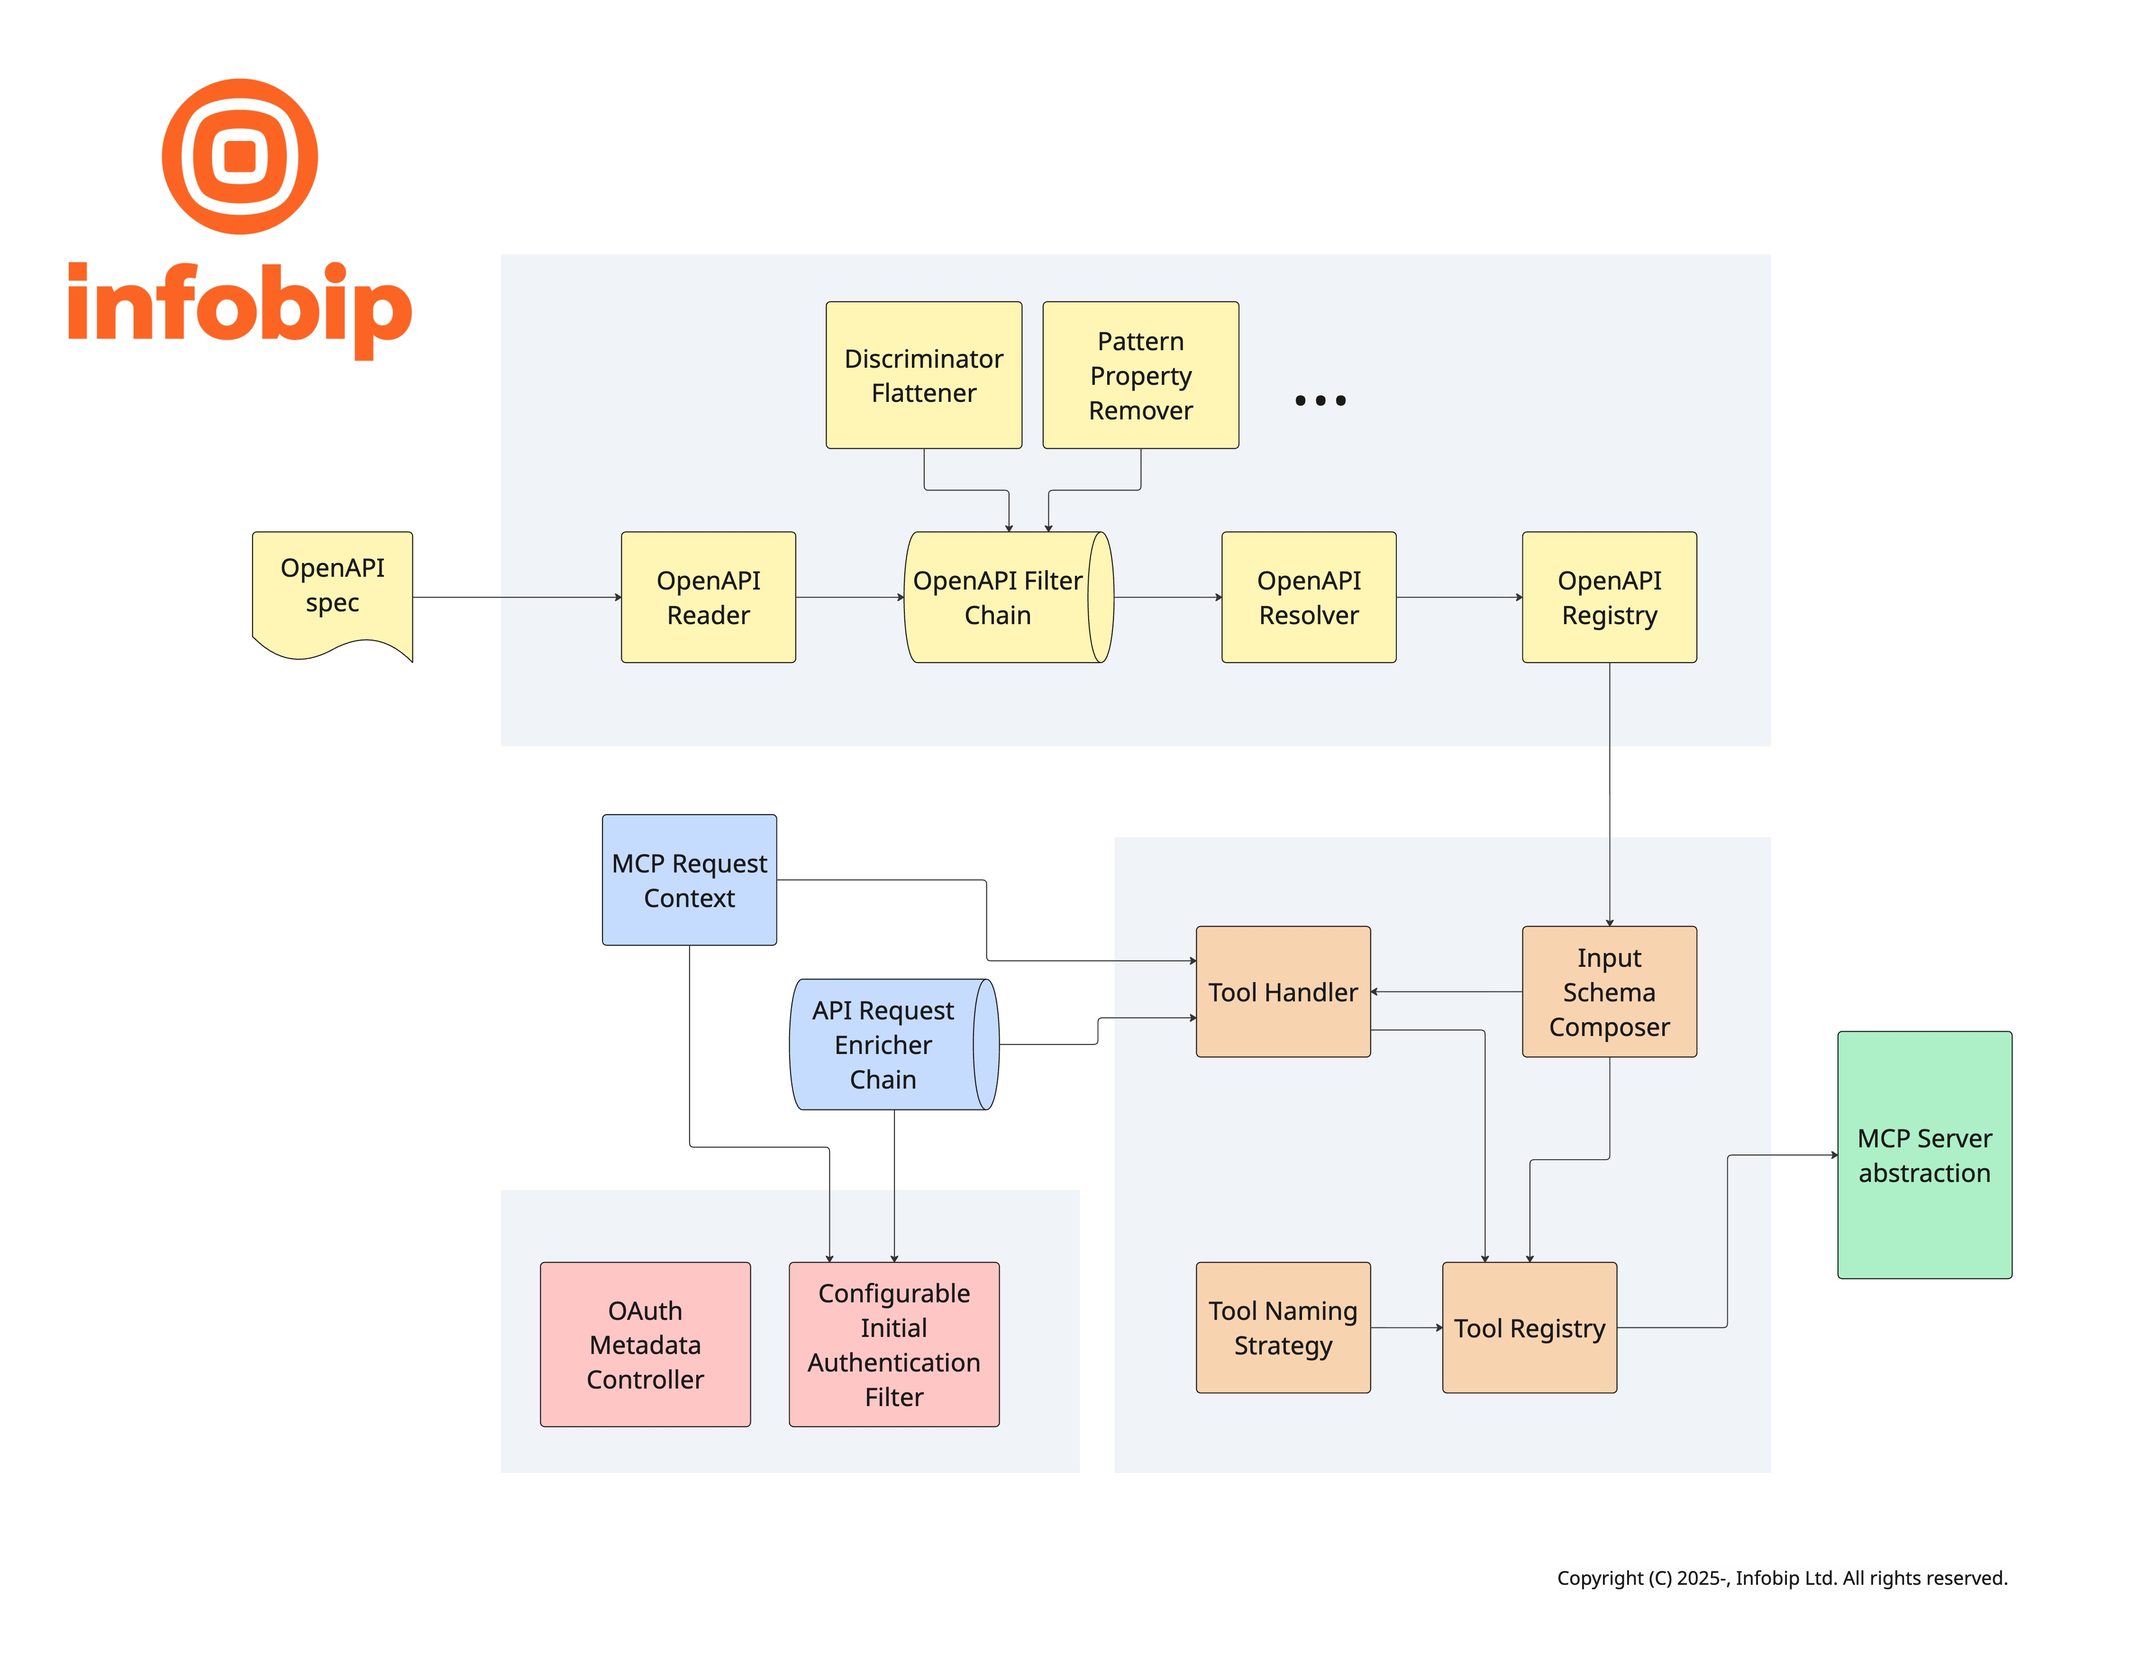
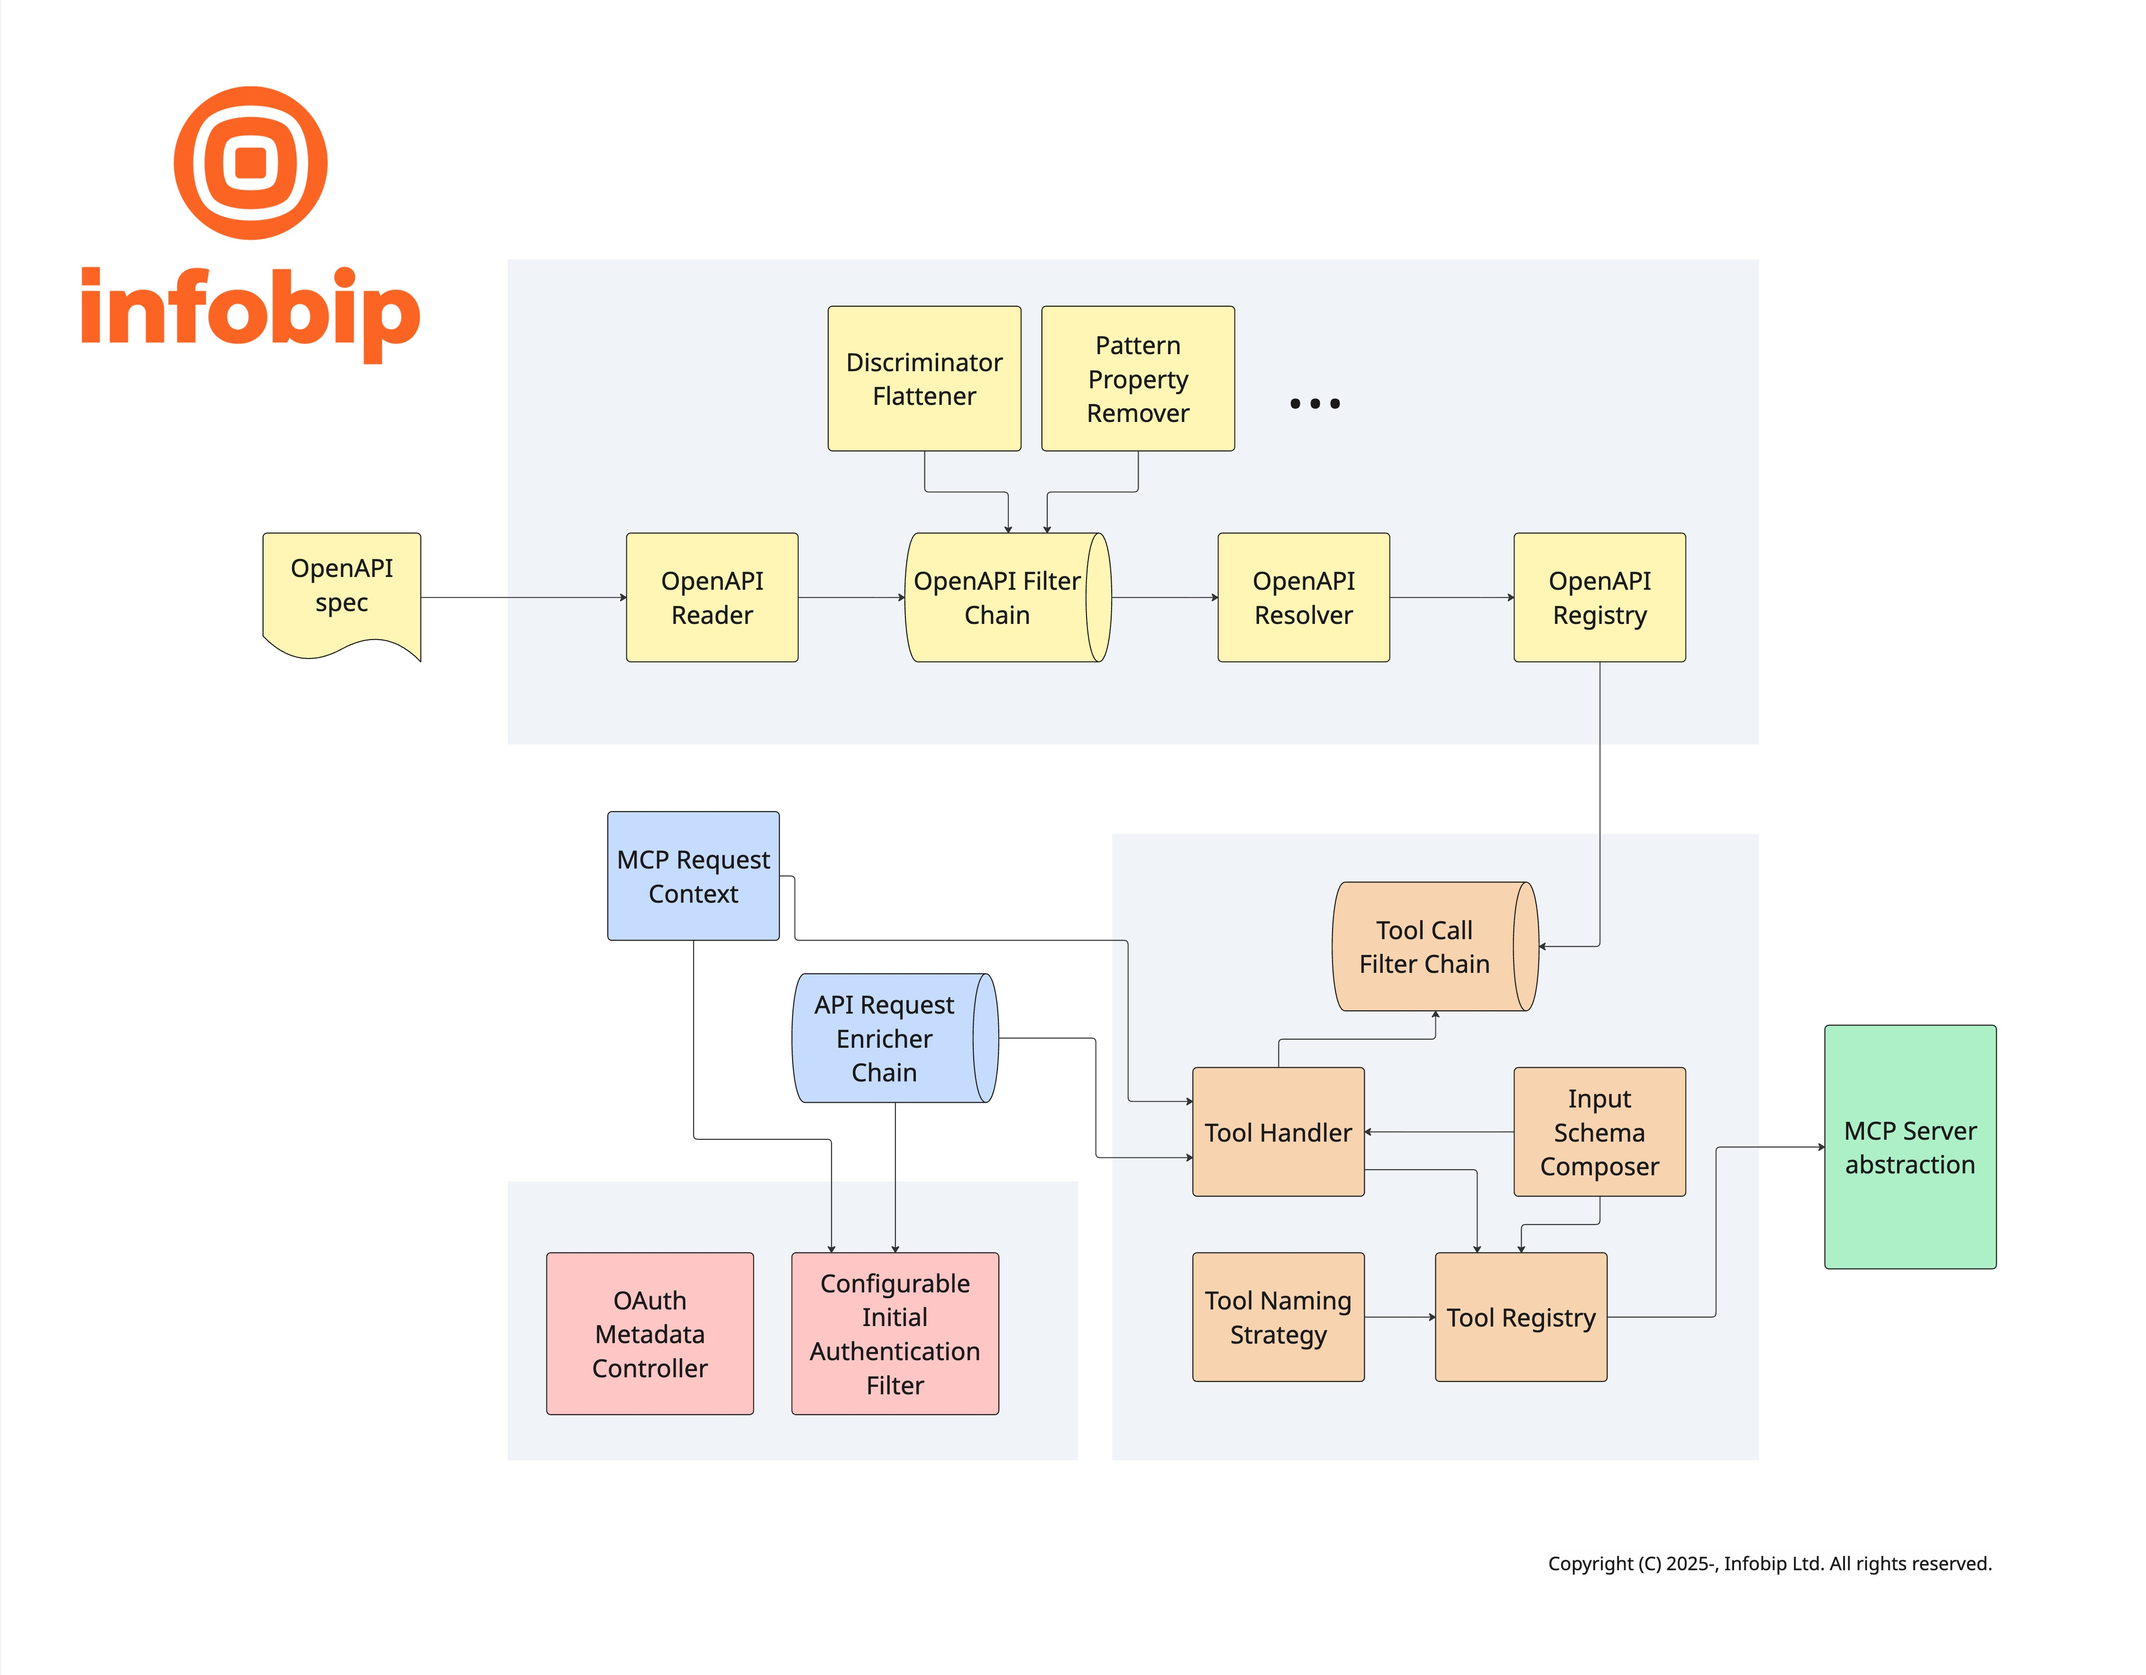
Update documentation

diff --git a/infobip-openapi-mcp-core/src/main/java/com/infobip/openapi/mcp/openapi/tool/OrderingToolCallFilterChainFactory.java b/infobip-openapi-mcp-core/src/main/java/com/infobip/openapi/mcp/openapi/tool/OrderingToolCallFilterChainFactory.java
@@ -6,28 +6,48 @@ import java.util.Collection;
 import java.util.List;
 import java.util.function.Supplier;
 import java.util.stream.Stream;
-import org.jspecify.annotations.NonNull;
+import org.jspecify.annotations.NullMarked;
+import org.springframework.core.Ordered;
 import org.springframework.core.annotation.AnnotationAwareOrderComparator;
 
-public class OrderingToolCallFilterChainFactory implements Supplier<ToolCallFilter.Chain> {
+/**
+ * OrderingToolCallFilterChainFactory creates a {@link ToolCallFilterChain} from an ordered list of {@link ToolCallFilter}s.
+ * Filters are sorted using Spring's {@link AnnotationAwareOrderComparator} to respect {@code @Order} annotations.
+ */
+@NullMarked
+public class OrderingToolCallFilterChainFactory implements Supplier<ToolCallFilterChain> {
 
     private final List<ToolCallFilter> filters;
 
-    public OrderingToolCallFilterChainFactory(
-            @NonNull ToolCallFilter filter, @NonNull Collection<? extends ToolCallFilter> filters) {
+    /**
+     * @param filter the only filter in the chain
+     */
+    public OrderingToolCallFilterChainFactory(ToolCallFilter filter) {
+        this(filter, List.of());
+    }
+
+    /**
+     * @param filter  at least one {@link ToolCallFilter} must be provided
+     * @param filters remaining filters in the chain
+     * @implNote filters are sorted in the constructor, allowing for performant {@link OrderingToolCallFilterChainFactory#get()} method calls
+     */
+    public OrderingToolCallFilterChainFactory(ToolCallFilter filter, Collection<? extends ToolCallFilter> filters) {
         this.filters = Stream.concat(Stream.of(filter), filters.stream())
                 .sorted(new AnnotationAwareOrderComparator())
                 .toList();
     }
 
+    /**
+     * @return chain that iterates over provided filters in order defined by Spring's {@link Ordered}. The resulting
+     * chain throws {@link IllegalStateException} in case none of the provided filters returns a {@link McpSchema.CallToolResult}.
+     */
     @Override
-    public ToolCallFilter.@NonNull Chain get() {
-        return new ToolCallFilter.Chain() {
+    public ToolCallFilterChain get() {
+        return new ToolCallFilterChain() {
             int idx = 0;
 
             @Override
-            public McpSchema.@NonNull CallToolResult doFilter(
-                    @NonNull McpRequestContext ctx, McpSchema.@NonNull CallToolRequest req) {
+            public McpSchema.CallToolResult doFilter(McpRequestContext ctx, McpSchema.CallToolRequest req) {
                 if (idx >= filters.size()) {
                     throw new IllegalStateException(
                             "Tool call filter chain exhausted without any of the filters returning a response.");

diff --git a/infobip-openapi-mcp-core/src/main/java/com/infobip/openapi/mcp/openapi/tool/ToolCallFilter.java b/infobip-openapi-mcp-core/src/main/java/com/infobip/openapi/mcp/openapi/tool/ToolCallFilter.java
@@ -2,15 +2,41 @@ package com.infobip.openapi.mcp.openapi.tool;
 
 import com.infobip.openapi.mcp.McpRequestContext;
 import io.modelcontextprotocol.spec.McpSchema;
-import org.jspecify.annotations.NonNull;
+import org.jspecify.annotations.NullMarked;
 
+/**
+ * ToolCallFilter interface allows interception and modification of MCP tool calls before and after execution.
+ * <p>
+ * Filters are invoked in a chain-of-responsibility pattern, with each filter having the option to:
+ * <ul>
+ *   <li>Inspect or modify the incoming request before delegating to the next filter</li>
+ *   <li>Delegate to the next filter in the chain via {@link ToolCallFilterChain#doFilter(McpRequestContext, McpSchema.CallToolRequest)}</li>
+ *   <li>Inspect or modify the response returned from the chain</li>
+ *   <li>Short-circuit the chain by returning a response without delegating</li>
+ * </ul>
+ * <p>
+ * Filters are invoked in the order defined by Spring's {@link org.springframework.core.Ordered} interface.
+ * The default {@link RegisteredTool} filter, which has the lowest precedence ({@link org.springframework.core.Ordered#LOWEST_PRECEDENCE}),
+ * is responsible for executing the actual HTTP API call to the backend service. Filters with higher precedence
+ * (lower order values) can intercept tool calls before the HTTP request is made.
+ *
+ * @see ToolCallFilterChain
+ * @see RegisteredTool
+ */
+@NullMarked
 public interface ToolCallFilter {
 
-    interface Chain {
-        McpSchema.@NonNull CallToolResult doFilter(
-                @NonNull McpRequestContext ctx, McpSchema.@NonNull CallToolRequest req);
-    }
-
-    McpSchema.@NonNull CallToolResult doFilter(
-            @NonNull McpRequestContext ctx, McpSchema.@NonNull CallToolRequest req, @NonNull Chain chain);
+    /**
+     * Filters the provided tool call request.
+     * <p>
+     * Implementations should typically delegate to the next filter in the chain by calling
+     * {@link ToolCallFilterChain#doFilter(McpRequestContext, McpSchema.CallToolRequest)}.
+     * Filters may choose to short-circuit the chain by returning a response directly without delegation.
+     *
+     * @param ctx   the MCP request context containing transport metadata and HTTP request information
+     * @param req   the tool call request to filter
+     * @param chain the filter chain to delegate to the next filter
+     * @return the tool call result, either from the chain or generated by this filter
+     */
+    McpSchema.CallToolResult doFilter(McpRequestContext ctx, McpSchema.CallToolRequest req, ToolCallFilterChain chain);
 }

diff --git a/infobip-openapi-mcp-core/src/main/java/com/infobip/openapi/mcp/openapi/tool/ToolCallFilterChain.java b/infobip-openapi-mcp-core/src/main/java/com/infobip/openapi/mcp/openapi/tool/ToolCallFilterChain.java
@@ -1,0 +1,32 @@
+package com.infobip.openapi.mcp.openapi.tool;
+
+import com.infobip.openapi.mcp.McpRequestContext;
+import io.modelcontextprotocol.spec.McpSchema;
+import org.jspecify.annotations.NonNull;
+
+/**
+ * ToolCallFilterChain represents a chain of {@link ToolCallFilter} instances that process MCP tool calls.
+ * <p>
+ * This interface is used by {@link ToolCallFilter} implementations to delegate processing
+ * to the next filter in the chain. Filters should call {@link #doFilter(McpRequestContext, McpSchema.CallToolRequest)}
+ * to continue the chain execution, which will invoke the next filter based on the order defined
+ * by Spring's {@link org.springframework.core.Ordered} interface.
+ *
+ * @see ToolCallFilter
+ * @see OrderingToolCallFilterChainFactory
+ */
+public interface ToolCallFilterChain {
+    /**
+     * Proceeds with the filter chain by invoking the next filter.
+     * <p>
+     * This method should be called by {@link ToolCallFilter} implementations to delegate
+     * processing to the next filter in the chain. If all filters have been processed,
+     * this will invoke the final handler which executes the actual tool call.
+     *
+     * @param ctx the MCP request context containing transport metadata and HTTP request information
+     * @param req the tool call request to process
+     * @return the tool call result from the chain
+     * @throws IllegalStateException if the chain is exhausted without any filter returning a response
+     */
+    McpSchema.@NonNull CallToolResult doFilter(@NonNull McpRequestContext ctx, McpSchema.@NonNull CallToolRequest req);
+}

diff --git a/infobip-openapi-mcp-spring-boot-starter/src/test/java/com/infobip/openapi/mcp/integration/base/CustomToolCallFilterTestBase.java b/infobip-openapi-mcp-spring-boot-starter/src/test/java/com/infobip/openapi/mcp/integration/base/CustomToolCallFilterTestBase.java
@@ -1,10 +1,10 @@
 package com.infobip.openapi.mcp.integration.base;
 
-import static com.github.tomakehurst.wiremock.client.WireMock.*;
 import static org.assertj.core.api.BDDAssertions.then;
 
 import com.infobip.openapi.mcp.McpRequestContext;
 import com.infobip.openapi.mcp.openapi.tool.ToolCallFilter;
+import com.infobip.openapi.mcp.openapi.tool.ToolCallFilterChain;
 import io.modelcontextprotocol.spec.McpSchema;
 import java.util.Map;
 import java.util.concurrent.atomic.AtomicReference;
@@ -33,7 +33,9 @@ public abstract class CustomToolCallFilterTestBase extends IntegrationTestBase {
 
         @Override
         public McpSchema.@Nullable CallToolResult doFilter(
-                @NonNull McpRequestContext ctx, McpSchema.@NonNull CallToolRequest req, @NonNull Chain chain) {
+                @NonNull McpRequestContext ctx,
+                McpSchema.@NonNull CallToolRequest req,
+                @NonNull ToolCallFilterChain chain) {
             observedCtx.set(ctx);
             observedReq.set(req);
             var res = chain.doFilter(ctx, req);

diff --git a/infobip-openapi-mcp-core/src/test/java/com/infobip/openapi/mcp/openapi/tool/OrderingToolCallFilterChainFactoryTest.java b/infobip-openapi-mcp-core/src/test/java/com/infobip/openapi/mcp/openapi/tool/OrderingToolCallFilterChainFactoryTest.java
@@ -18,7 +18,9 @@ class OrderingToolCallFilterChainFactoryTest {
     static class MockLoggingFilter implements ToolCallFilter {
         @Override
         public McpSchema.@NonNull CallToolResult doFilter(
-                @NonNull McpRequestContext ctx, McpSchema.@NonNull CallToolRequest req, @NonNull Chain chain) {
+                @NonNull McpRequestContext ctx,
+                McpSchema.@NonNull CallToolRequest req,
+                @NonNull ToolCallFilterChain chain) {
             return chain.doFilter(ctx, req);
         }
     }
@@ -27,7 +29,9 @@ class OrderingToolCallFilterChainFactoryTest {
 
         @Override
         public McpSchema.@NonNull CallToolResult doFilter(
-                @NonNull McpRequestContext ctx, McpSchema.@NonNull CallToolRequest req, @NonNull Chain chain) {
+                @NonNull McpRequestContext ctx,
+                McpSchema.@NonNull CallToolRequest req,
+                @NonNull ToolCallFilterChain chain) {
             return new McpSchema.CallToolResult("\"ok\"", false);
         }
 

diff --git a/infobip-openapi-mcp-core/src/main/java/com/infobip/openapi/mcp/openapi/tool/RegisteredTool.java b/infobip-openapi-mcp-core/src/main/java/com/infobip/openapi/mcp/openapi/tool/RegisteredTool.java
@@ -29,7 +29,8 @@ public record RegisteredTool(
         implements ToolCallFilter, Ordered {
 
     @Override
-    public McpSchema.CallToolResult doFilter(McpRequestContext ctx, McpSchema.CallToolRequest req, Chain chain) {
+    public McpSchema.CallToolResult doFilter(
+            McpRequestContext ctx, McpSchema.CallToolRequest req, ToolCallFilterChain chain) {
         return toolHandler.apply(req, ctx);
     }
 

diff --git a/README.md b/README.md
@@ -54,6 +54,7 @@ There are more technical features that enable customizing various behaviors, lik
   scopes.
 - Several naming strategies are available to customize MCP tool names.
 - API request enrichers that can be used to programmatically customize the API requests that back the tool calls.
+- MCP tool call filters that can be used to customize tool call behavior.
 - A base of [Spring AI][3] external customization options, which framework builds on top of with its own options. See
   below for a full list.
 
@@ -220,6 +221,17 @@ that sets the `User-Agent` header to the value defined in externalized configura
 > to tweaking Spring's `RestClient.RequestHeadersSpec` and does not provide options to break the flow and prevent the
 > API
 > call from being made.
+
+### ToolCallFilter
+
+You can implement and register beans of type `com.infobip.openapi.mcp.openapi.tool.ToolCallFilter` to customize the tool
+call handling behavior. Tool call filters can modify requests before making API calls, as well as API responses before
+returning them to MCP client. They are also a good place to implement custom observability. Unlike API request
+enrichers, tool call filters can break the processing chain, thus preventing the API call from being made.
+
+The `com.infobip.openapi.mcp.openapi.tool.RegisteredTool` provides the default implementation of a tool filter which
+makes the HTTP API call. It is registered with the lowest precedence, so you can preempt it by using any precedence
+higher than that.
 
 ### JSON serialization
 

diff --git a/CHANGELOG.md b/CHANGELOG.md
@@ -19,7 +19,8 @@ and this project adheres to [Semantic Versioning](https://semver.org/spec/v2.0.0
 
 ### Added
 
-- Added scope challenge handling to be in compliance with MCP 2025-11-25 authorization specification, section [10.1](https://modelcontextprotocol.io/specification/2025-11-25/basic/authorization#runtime-insufficient-scope-errors). 
+- Added scope challenge handling to be in compliance with MCP 2025-11-25 authorization specification, section [10.1](https://modelcontextprotocol.io/specification/2025-11-25/basic/authorization#runtime-insufficient-scope-errors).
+- Introduced the `com.infobip.openapi.mcp.openapi.tool.ToolCallFilter` abstraction for customizing tool call behavior.
 
 ### Changed
 
